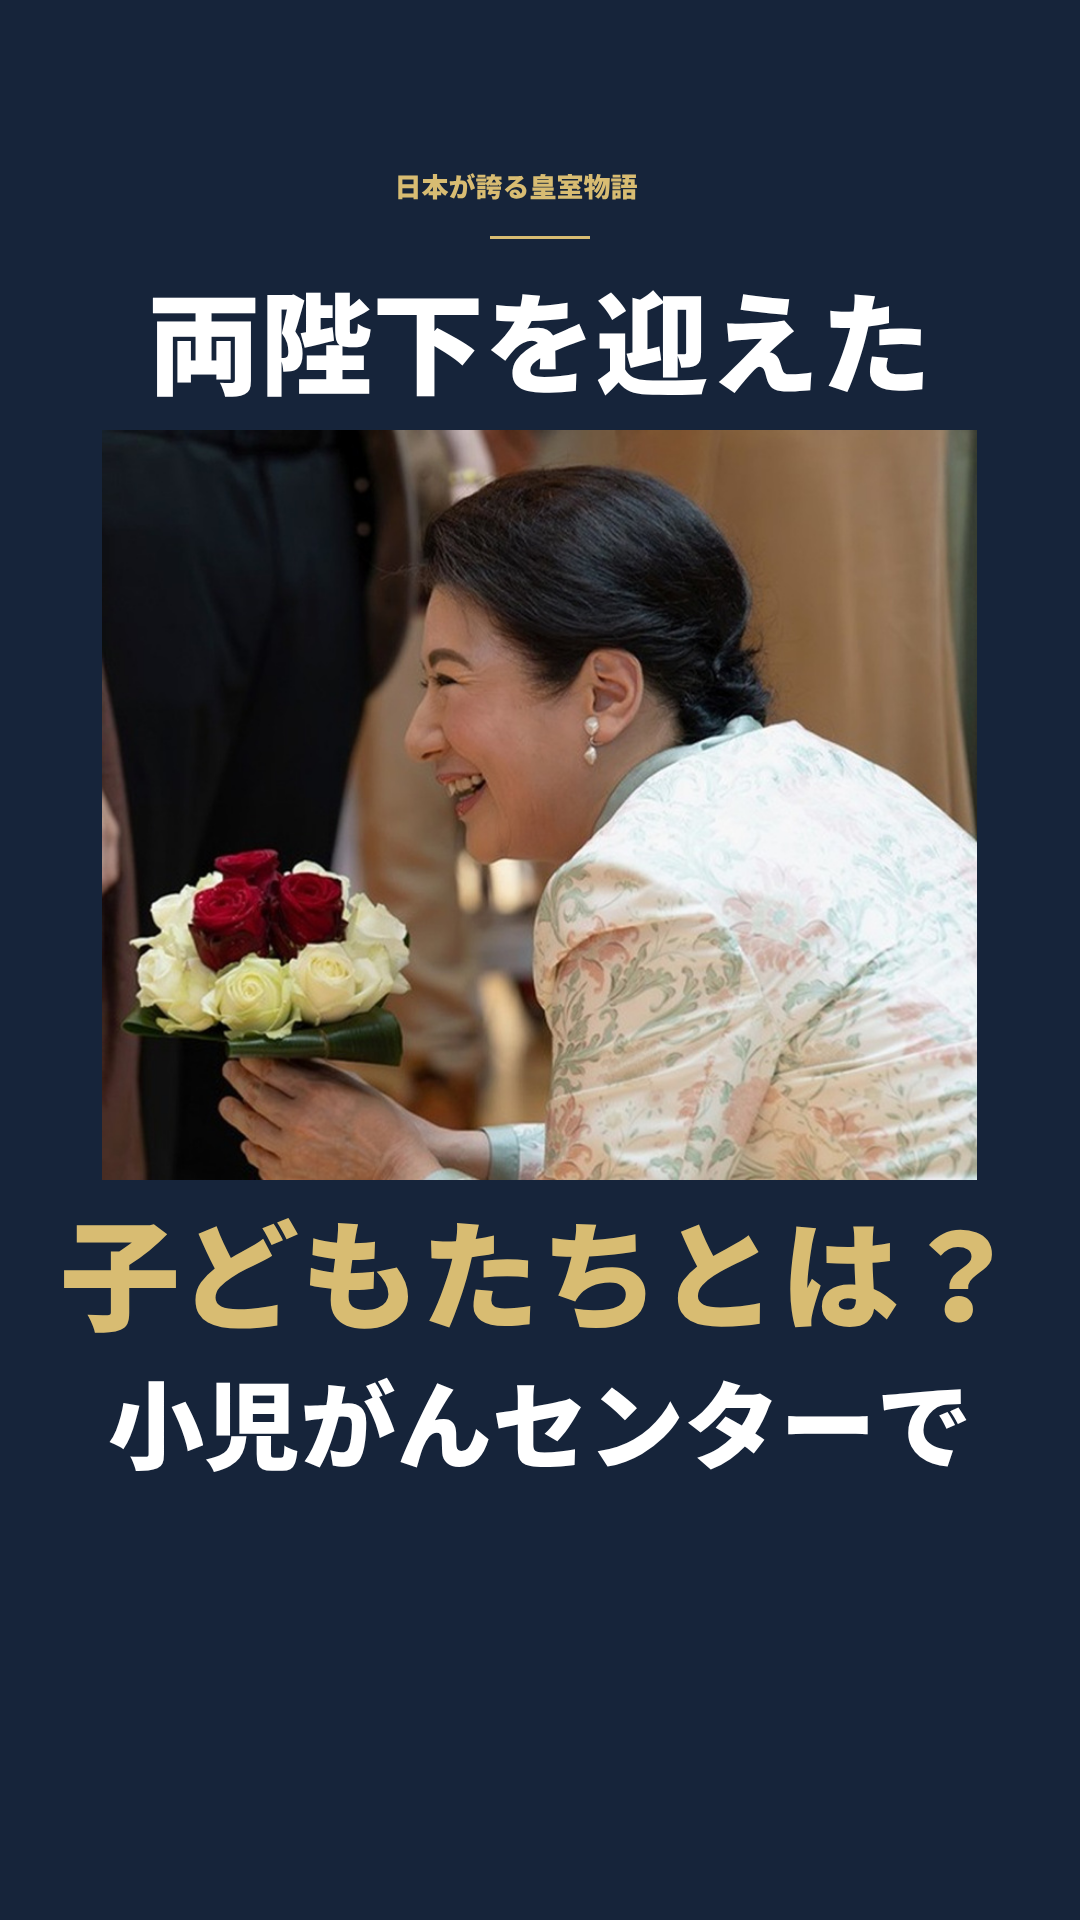
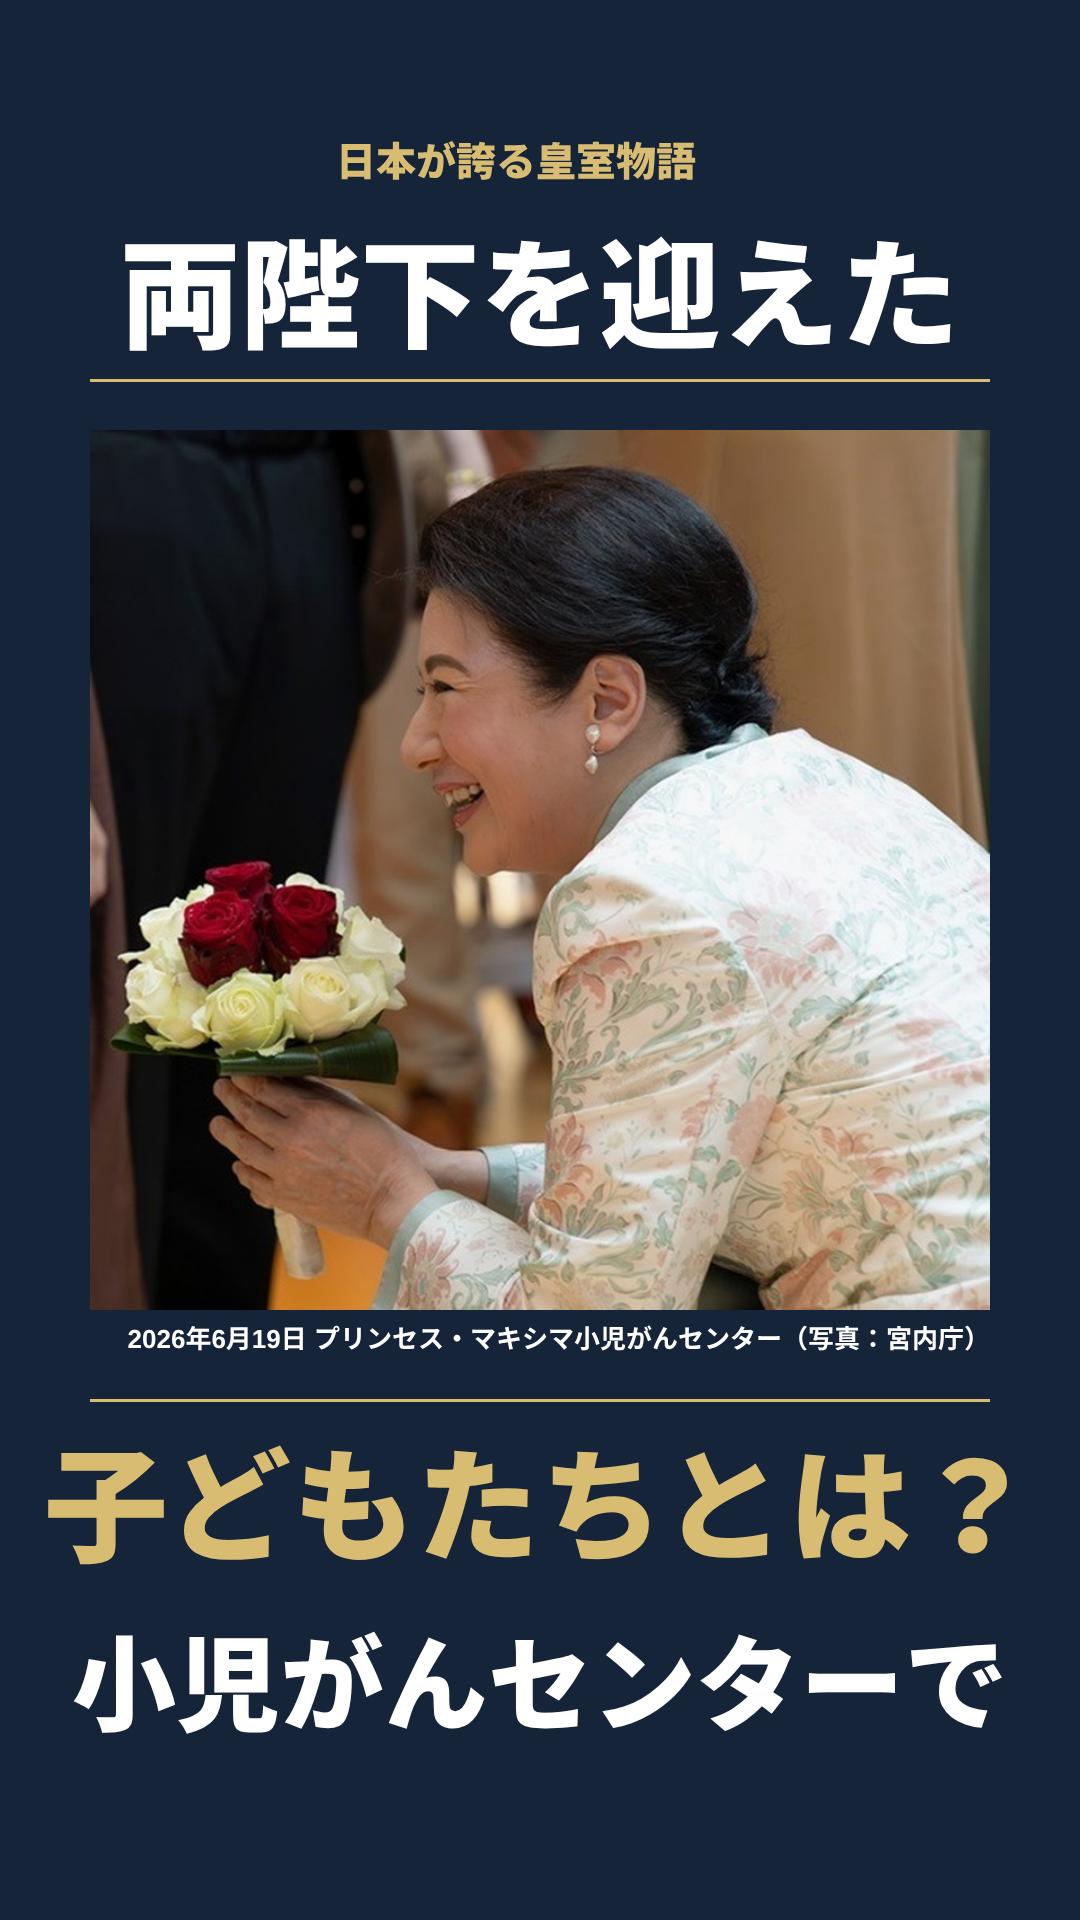
書き出し: 字幕140px固定・1行7字、全体表示と字幕に合わせた写真の切り替え(switch_subs)を追加。作業途中の保存
Claude-Session: https://claude.ai/code/session_01BJaPieHBuTRAAQkfULpzEX

Changed region(s): [[0.0306, 0.2188, 0.9472, 0.8125], [0.0917, 0.0625, 0.8861, 0.2812], [0.0611, 0.8438, 0.9472, 0.9062]]

diff --git a/pipeline/rules_render.py b/pipeline/rules_render.py
@@ -37,7 +37,7 @@ FONT_R = str(FONT_DIR / "NotoSansJP-Regular.ttf")
 VV = "http://127.0.0.1:50021"
 SPEED = 0.90
 SPEC = {
-    "縦型": {"W": 1080, "H": 1920, "max_dur": 75.0, "cut": (2.0, 4.0), "max_show": 5.0, "line": 6, "sub_size": 160,
+    "縦型": {"W": 1080, "H": 1920, "max_dur": 75.0, "cut": (2.0, 4.0), "max_show": 5.0, "line": 6, "sub_size": 140,
              "sub_y": 0.70, "person_ratio": 0.95, "cuts": (15, 25), "images": 12},
     "横型": {"W": 1920, "H": 1080, "max_dur": 720.0, "cut": (4.0, 6.0), "max_show": 8.0, "line": 13, "sub_size": 130,
              "sub_y": 0.84, "person_ratio": 0.90, "cuts": (100, 150), "images": 60},
@@ -91,7 +91,7 @@ def _split_long(u: str, line: int) -> list[str]:
         pos += n
     if pos < len(u):
         words.append(u[pos:])
-    if len(u) <= line + 2:  # 言葉を切らないため、1行8字(縦型)までは分けずに少し縮めて出す
+    if len(u) <= line + 1:  # 荒木指示 2026-11-24: 字幕の大きさを統一するため、1行7字(縦型)まで。縮めない
         return [u]
     cuts, acc = [], 0
     for k in range(1, len(words)):
@@ -169,7 +169,7 @@ def split_sub(text: str, line: int) -> list[list[str]]:
             fixed.append(u)
     units = []
     for u in fixed:  # 1つの文節が1行に収まらない時は、単語の切れ目で分ける(字幕を縮めないため)
-        units += _split_long(u, line) if len(u) > line + 2 else [u]
+        units += _split_long(u, line) if len(u) > line + 1 else [u]
     lines, cur = [], ""
     for u in units:
         if cur and (len(cur + u) > line or cur.endswith("。")) and not (len(u) <= 1 and len(cur + u) <= line + 1 and not cur.endswith("。")):
@@ -340,7 +340,22 @@ def _vertical_box(img, crop, PW, PH, cx, cy, fh, fs, main):
         ch = min(ih, cw / bar)
     # 枠より横長の写真: 写っている方々(顔の左右の端)が枠の幅に収まるなら、左右を切って枠いっぱいに表示する(荒木指示: できる限り画面いっぱいに)
     fit_width = False
-    if iw / ih > bar and crop not in ("顔の寄り", "手元・装い"):
+    if crop == "全体表示":
+        # 2026-11-24 当てっこ係の指摘: 写真全体を枠に収める(顔検出に漏れた方が切れない・小さい写真を拡大しすぎない)。
+        # 横長は横幅いっぱいの帯、縦長は枠の高さいっぱいに置き、左右はぼかした背景
+        if iw / ih > bar:
+            fit_width = True
+        else:
+            fw2 = max(1, int(iw * bh / ih))
+            fg2 = cv2.resize(img, (fw2, bh), interpolation=cv2.INTER_LANCZOS4)
+            strip = bg[bt:bb].copy()
+            x0 = (PW - fw2) // 2
+            strip[:, x0:x0 + fw2] = fg2
+            out = bg.copy()
+            out[bt:bb, :PW] = strip
+            LAST_BAND = (bt, bh, strip, out.copy())
+            return out, (x0 + cx * bh / ih, bt + cy * bh / ih)
+    if iw / ih > bar and crop not in ("顔の寄り", "手元・装い", "全体表示"):
         fit_width = True
         if fs:
             mg = max(fh * 1.6, iw * 0.05)
@@ -565,6 +580,17 @@ def build(project: str, kind: str = "縦型") -> Path:
         off = 0
         if imgs and shots and len(imgs) > 1 and imgs[0] == shots[-1]["image"]:
             off = 1  # 第4-2章: 隣り合うカットに同じ画像を使わない
+        cuts_at = None
+        if len(imgs) > 1 and s.get("switch_subs"):
+            # 第4-3章(2026-11-24): 写真の切り替えを字幕の区切り(言葉の切れ目)に合わせる。音声・字幕は変えない。
+            # switch_subs = 次の写真に替える字幕のかたまりの番号(0始まり)。字幕の時刻と同じ計算(モーラ比)で求める
+            from .tts import mora_count
+            ch = s.get("subtitle_lines") or split_sub(s["narration"], sp["line"])
+            ms_ = [max(1, mora_count("".join(c))) for c in ch]
+            a_, b_ = s["start_sec"], s["end_sec"] - 0.06
+            st_ = [a_ + (b_ - a_) * sum(ms_[:j]) / sum(ms_) for j in range(len(ch))]
+            cuts_at = [a] + [st_[j] for j in s["switch_subs"]] + [b]
+            n = len(cuts_at) - 1
         for k in range(n):
             img = imgs[(k + off) % len(imgs)] if imgs else None
             c0 = s.get("crop", "全身")
@@ -575,14 +601,16 @@ def build(project: str, kind: str = "縦型") -> Path:
             else:
                 crop = crops[(crops.index(c0) + k) % 3]
             motion = s.get("motion", "ゆっくり拡大") if k == 0 else motions[(motions.index(s.get("motion", "ゆっくり拡大")) + k) % 4]
-            shots.append({"scene": s["scene"], "start": a + (b - a) * k / n, "end": a + (b - a) * (k + 1) / n,
+            s0 = cuts_at[k] if cuts_at else a + (b - a) * k / n
+            s1 = cuts_at[k + 1] if cuts_at else a + (b - a) * (k + 1) / n
+            shots.append({"scene": s["scene"], "start": s0, "end": s1,
                           "image": img, "crop": crop, "motion": motion, "compare": s.get("compare"),
                           # 写真ごとの人物名(例: 人物の写らない会場写真は "")。無ければ場面の人物名
                           "person_label": (s.get("labels") or {}).get(img, s.get("person_label", "")),
                           "caption": (s.get("captions") or {}).get(img) or s.get("caption", ""),
                           # 人物以外を語る場面で写っている物(例: 黒鳥)。第4-3章
                           "subject": (s.get("subjects") or {}).get(img, s.get("subject", "")),
-                          "clip_start": float((s.get("clip") or {}).get("start", 0)) + (b - a) * k / n,
+                          "clip_start": float((s.get("clip") or {}).get("start", 0)) + (s0 - a),
                           "diagram": bool(s.get("diagram"))})
     # 3) 映像
     raw = out_dir / "video_nosub.mp4"

diff --git a/projects/KB-20261123-05/qa_report.md b/projects/KB-20261123-05/qa_report.md
@@ -1,6 +1,6 @@
 # qa_report — KB-20261123-05(縦型)
 
-判定: **完成**
+判定: **未完成(不足事項あり)**
 
 | 項目 | 合否 | 実測・詳細 | 対応案 |
 |---|---|---|---|
@@ -8,12 +8,13 @@
 | 画像の人物名・撮影情報が ledger.csv と一致 | 合格 | 全場面一致(写真に写る人物そのものは要目視) |  |
 | ナレーション全文と字幕が一致 | 合格 | 全場面一致(誤字の有無は要目視) |  |
 | 揶揄・対立のNG語がない(第1-2章) | 合格 | なし |  |
-| 尺・解像度・fps・形式 | 合格 | 60.58秒 1080x1920 30.00fps h264/aac |  |
+| 尺・解像度・fps・形式 | 合格 | 61.11秒 1080x1920 30.00fps h264/aac |  |
 | 画面上の文字が Noto Sans JP | 合格 | 字幕 {'Noto Sans JP'} / 表示文字 NotoSansJP-Bold.ttf |  |
-| 字幕が小さく縮んでいない(規定160pxの77%以上=1行8字まで) | 合格 | なし |  |
+| 字幕の大きさが全て同じ(規定140px・縦型は1行7字まで・第5章) | 不合格 | ['0:00:03.60「子どもたちとは？」125px', '0:00:27.16「マキシマ小児がん\\Nセンターでは、」125px', '0:00:37.79「子どもたちとは、\\Nどんな」125px', '0:00:39.23「子どもたちだった\\Nのでしょうか」125px', '0:00:56.44「ぜひコメントで、」125px'] | 長い文節・かぎかっこの引用を分けて1行7字以内にする(subtitle_lines で改行を指定してもよい) |
+| 字幕の書式(太字・縁取り・影・色)が全て同じ(第5章) | 合格 | スタイル 1種類 / 行ごとの書式変更 なし |  |
 | 字幕が画面からはみ出していない(最大限の大きさで) | 合格 | はみ出し なし(画面幅 1080px・余白各30px) |  |
 | ナレーションが青山龍星・速度0.90 | 合格 | speaker_id=13(/speakers から取得) speedScale=0.9 |  |
-| 第4章 切替間隔・最長表示・人物の割合・同一画像の回数 | 合格 | カット 15(目標15〜25) / 平均 4.04秒 / 最長 4.84秒(上限5.0) / 範囲外 なし / 人物・語る物が映る割合 100%(目標95%)・人物のみ 86%(75%以上) / 異なる画像 15枚(目標12) / 上限(1回)を超えた画像 なし |  |
+| 第4章 切替間隔・最長表示・人物の割合・同一画像の回数 | 合格 | カット 15(目標15〜25) / 平均 4.07秒 / 最長 4.87秒(上限5.0) / 範囲外 なし / 人物・語る物が映る割合 100%(目標95%)・人物のみ 87%(75%以上) / 異なる画像 15枚(目標12) / 上限(1回)を超えた画像 なし |  |
 | 主役の位置が登録済み(ズーム・パンの開始位置) | 合格 | 未登録 なし |  |
 | 第4-2章 素材の豊富さ(隣接の重複・多様さ・図解の量) | 合格 | 隣り合う同じ画像 なし / 異なる画像÷カット数 1.00(目安0.6以上) / 図解・文字だけ 0.0秒(上限3秒) / 実写映像カット 0 |  |
 | 黒画面・無音・音割れ・BGM音量 | 合格 | 黒画面 なし / 無音 なし / ピーク -2.9dB / BGM はナレーションより約21dB低く(-16 vs -37 LUFS)(不自然なカットは要目視) |  |
@@ -24,4 +25,4 @@
 | 冒頭の疑問に本編で回答 | 合格 | question=0 answer=あり(回答内容の妥当性は要目視) |  |
 
 ## 実測値
-- 尺 60.58秒 / カット数 15 / 異なる画像 15枚 / 人物が映る割合 100% / 実写映像カット 0 / 図解 0.0秒
+- 尺 61.11秒 / カット数 15 / 異なる画像 15枚 / 人物が映る割合 100% / 実写映像カット 0 / 図解 0.0秒

diff --git a/projects/KB-20261123-03/qa_report.md b/projects/KB-20261123-03/qa_report.md
@@ -8,9 +8,10 @@
 | 画像の人物名・撮影情報が ledger.csv と一致 | 合格 | 全場面一致(写真に写る人物そのものは要目視) |  |
 | ナレーション全文と字幕が一致 | 合格 | 全場面一致(誤字の有無は要目視) |  |
 | 揶揄・対立のNG語がない(第1-2章) | 合格 | なし |  |
-| 尺・解像度・fps・形式 | 合格 | 54.17秒 1080x1920 30.00fps h264/aac |  |
+| 尺・解像度・fps・形式 | 合格 | 54.10秒 1080x1920 30.00fps h264/aac |  |
 | 画面上の文字が Noto Sans JP | 合格 | 字幕 {'Noto Sans JP'} / 表示文字 NotoSansJP-Bold.ttf |  |
-| 字幕が小さく縮んでいない(規定160pxの77%以上=1行8字まで) | 合格 | なし |  |
+| 字幕の大きさが全て同じ(規定140px・縦型は1行7字まで・第5章) | 合格 | なし |  |
+| 字幕の書式(太字・縁取り・影・色)が全て同じ(第5章) | 合格 | スタイル 1種類 / 行ごとの書式変更 なし |  |
 | 字幕が画面からはみ出していない(最大限の大きさで) | 合格 | はみ出し なし(画面幅 1080px・余白各30px) |  |
 | ナレーションが青山龍星・速度0.90 | 合格 | speaker_id=13(/speakers から取得) speedScale=0.9 |  |
 | 第4章 切替間隔・最長表示・人物の割合・同一画像の回数 | 合格 | カット 15(目標15〜25) / 平均 3.61秒 / 最長 4.70秒(上限5.0) / 範囲外 なし / 人物・語る物が映る割合 100%(目標95%)・人物のみ 78%(75%以上) / 異なる画像 15枚(目標12) / 上限(1回)を超えた画像 なし |  |
@@ -24,4 +25,4 @@
 | 冒頭の疑問に本編で回答 | 合格 | question=0 answer=あり(回答内容の妥当性は要目視) |  |
 
 ## 実測値
-- 尺 54.17秒 / カット数 15 / 異なる画像 15枚 / 人物が映る割合 100% / 実写映像カット 0 / 図解 0.0秒
+- 尺 54.10秒 / カット数 15 / 異なる画像 15枚 / 人物が映る割合 100% / 実写映像カット 0 / 図解 0.0秒

diff --git a/projects/KB-20261123-06/qa_report.md b/projects/KB-20261123-06/qa_report.md
@@ -1,6 +1,6 @@
 # qa_report — KB-20261123-06(縦型)
 
-判定: **完成**
+判定: **未完成(不足事項あり)**
 
 | 項目 | 合否 | 実測・詳細 | 対応案 |
 |---|---|---|---|
@@ -10,7 +10,8 @@
 | 揶揄・対立のNG語がない(第1-2章) | 合格 | なし |  |
 | 尺・解像度・fps・形式 | 合格 | 54.24秒 1080x1920 30.00fps h264/aac |  |
 | 画面上の文字が Noto Sans JP | 合格 | 字幕 {'Noto Sans JP'} / 表示文字 NotoSansJP-Bold.ttf |  |
-| 字幕が小さく縮んでいない(規定160pxの77%以上=1行8字まで) | 合格 | なし |  |
+| 字幕の大きさが全て同じ(規定140px・縦型は1行7字まで・第5章) | 不合格 | ['0:00:00.25「愛子さまについて\\N毎回語られた」125px', '0:00:02.76「2つの言葉とは？」132px', '0:00:36.09「語られた\\N2つの言葉とは、」132px', '0:00:40.78「「思いやり」です」125px'] | 長い文節・かぎかっこの引用を分けて1行7字以内にする(subtitle_lines で改行を指定してもよい) |
+| 字幕の書式(太字・縁取り・影・色)が全て同じ(第5章) | 合格 | スタイル 1種類 / 行ごとの書式変更 なし |  |
 | 字幕が画面からはみ出していない(最大限の大きさで) | 合格 | はみ出し なし(画面幅 1080px・余白各30px) |  |
 | ナレーションが青山龍星・速度0.90 | 合格 | speaker_id=13(/speakers から取得) speedScale=0.9 |  |
 | 第4章 切替間隔・最長表示・人物の割合・同一画像の回数 | 合格 | カット 15(目標15〜25) / 平均 3.62秒 / 最長 4.92秒(上限5.0) / 範囲外 なし / 人物・語る物が映る割合 100%(目標95%)・人物のみ 100%(75%以上) / 異なる画像 15枚(目標12) / 上限(1回)を超えた画像 なし |  |

diff --git a/projects/KB-20261123-03/publish/check.md b/projects/KB-20261123-03/publish/check.md
@@ -2,6 +2,6 @@
 
 判定: **合格**
 
-- タイトル 73文字 / 説明文 4492文字(上限5000) / ハッシュタグ 説明文30個・タイトル込み30個(上限60)
+- タイトル 73文字 / 説明文 4514文字(上限5000) / ハッシュタグ 説明文30個・タイトル込み30個(上限60)
 
 表紙3段: 上「お別れの日、ラーケン宮で」/ 中「過ごされた時間とは？」/ 下「ベルギー国王ご夫妻と両陛下」/ 中心画像 A104
